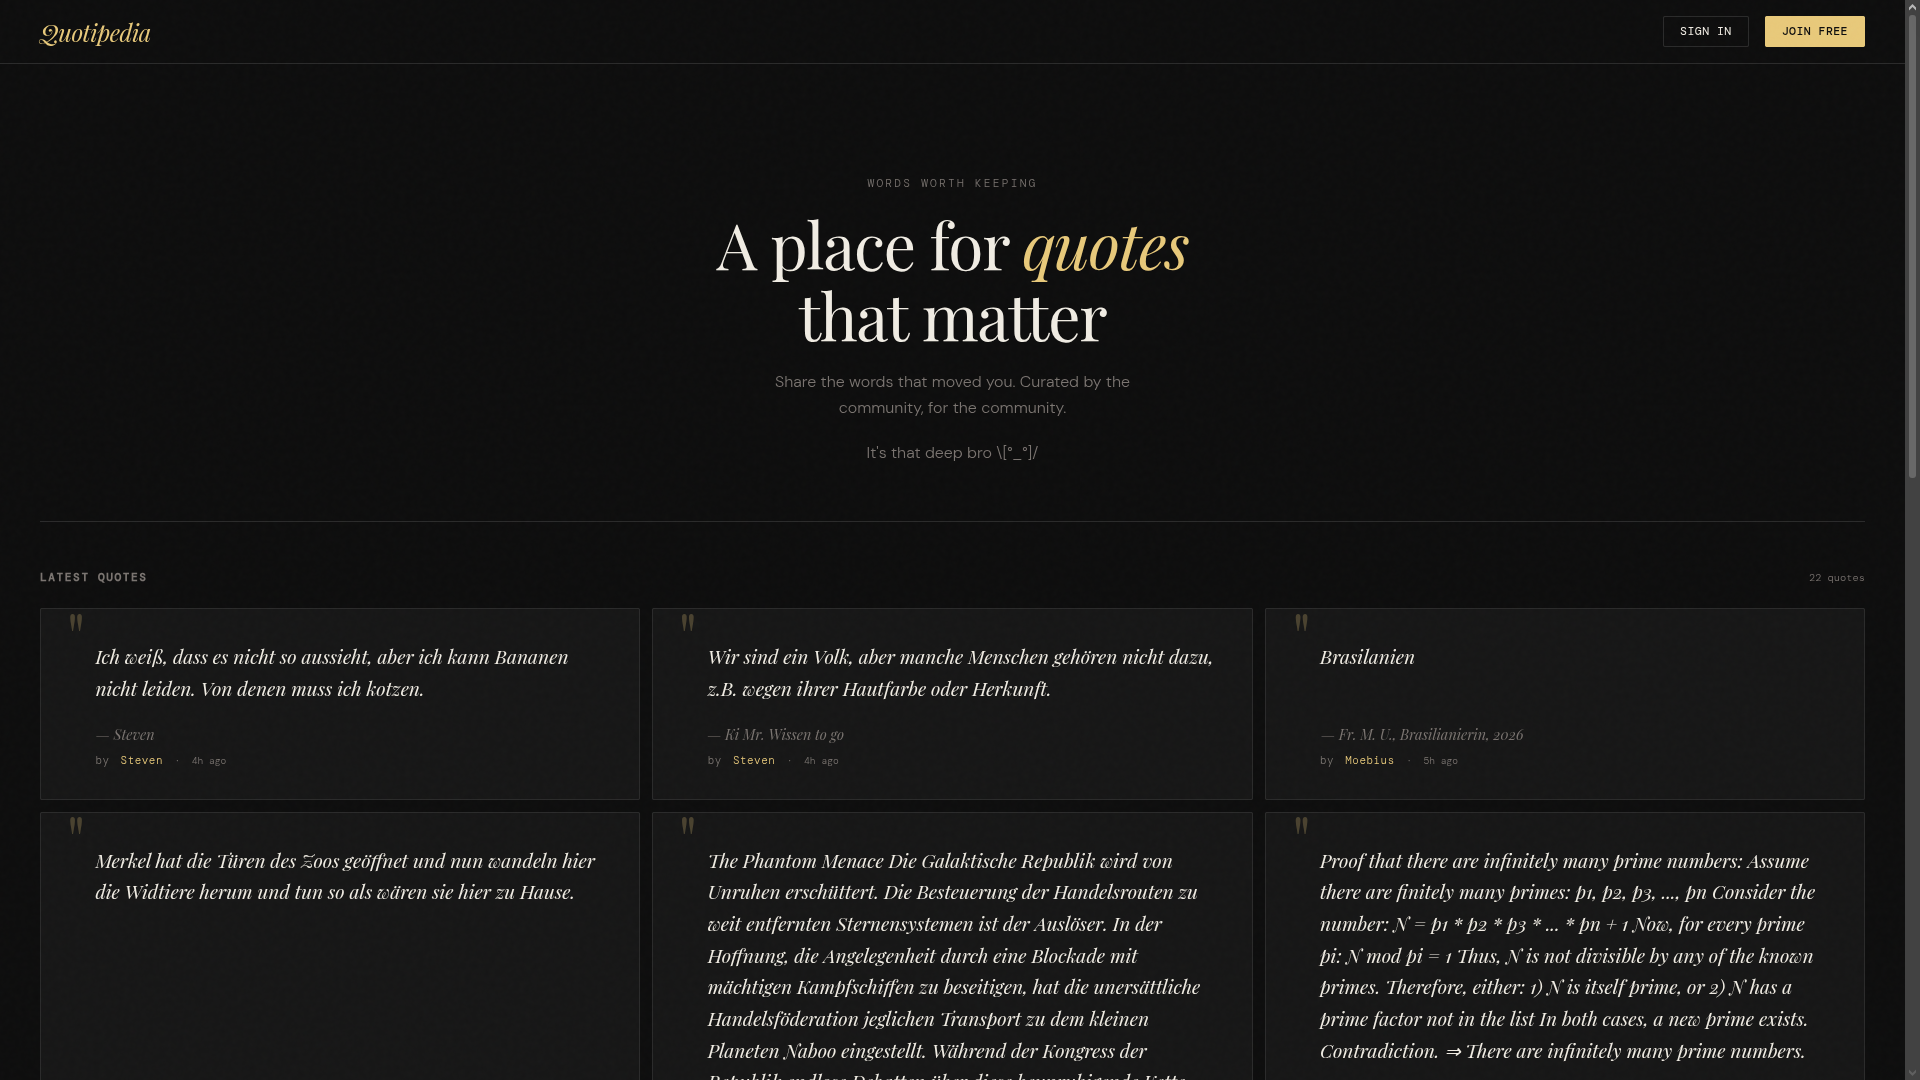
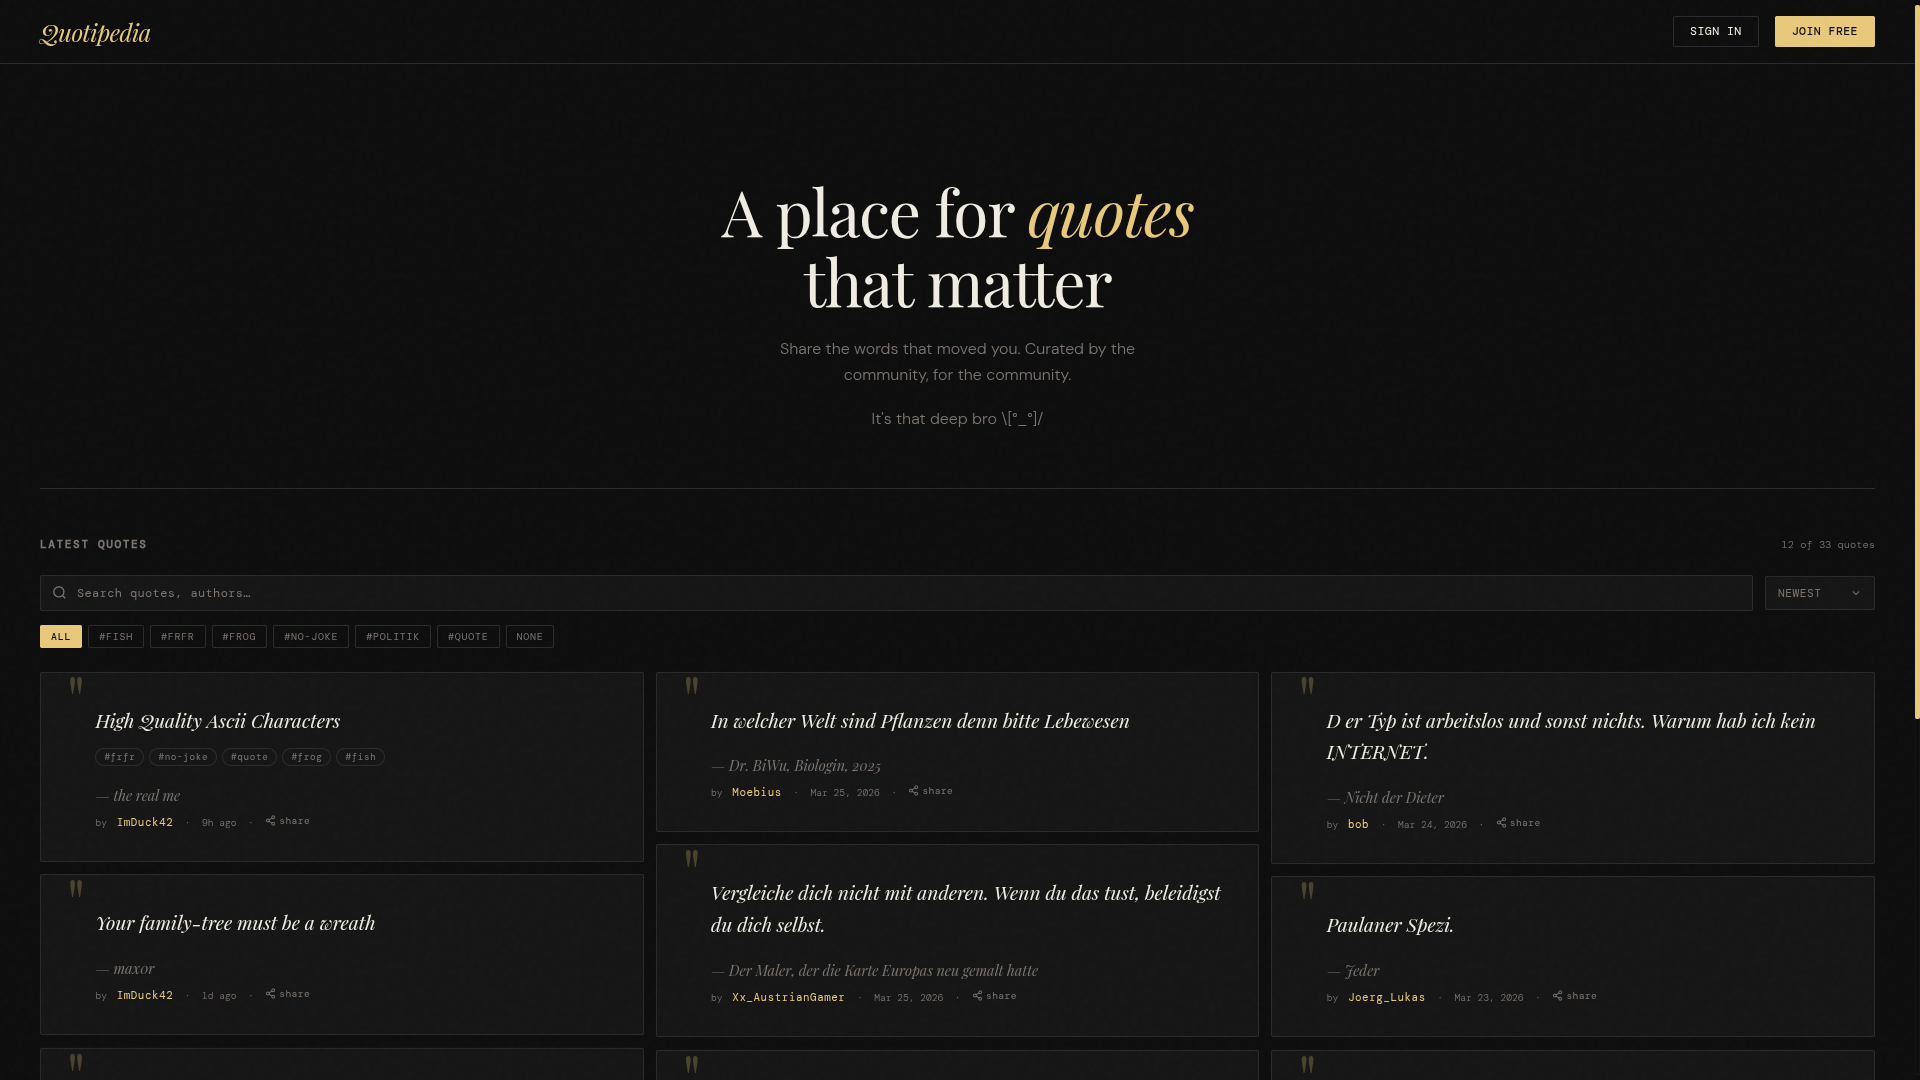
Added: cross tab sync, mobile friendly profile editing, tabs on user's profiles Removed: comment i think thats it

diff --git a/app.js b/app.js
@@ -325,7 +325,7 @@ async function saveProfile(username, profile) {
 
 
 /* ══════════════════════════════════════════════════════════════════
-   Skeleton loading  (shows while quotes are fetching)
+   Skeleton loading
    ══════════════════════════════════════════════════════════════════ */
 function makeSkeleton(count = 6) {
     return Array.from({ length: count }, () => `
@@ -1025,6 +1025,8 @@ async function doAuth() {
             updateNav(database.auth.currentUser)
             showToast(`Welcome back, ${username}!`, 'success')
         }
+        const session = sessionStorage.getItem('__githubdb_session__')
+        if (session) localStorage.setItem('__githubdb_session__', session)
         loadQuotes()
     } catch (err) {
         dom.authError.textContent = userMessage(err)
@@ -1081,7 +1083,7 @@ async function renderProfileView(username, activeTab = 'quotes') {
     let profile, likedIds
     if (!isTabSwitch) {
         profile  = await loadProfile(username)
-        likedIds = isOwnProfile ? await fetchUserLikedIds(username) : new Set()
+        likedIds = await fetchUserLikedIds(username)
 
         // Cache data on the element for fast tab switches
         dom.profileView.profileCache = { username, profile, likedIds }
@@ -1091,9 +1093,7 @@ async function renderProfileView(username, activeTab = 'quotes') {
     }
 
     const allUserQuotes = cachedQuotes.filter(q => q.postedBy === username)
-    const likedQuotes   = isOwnProfile
-        ? cachedQuotes.filter(q => likedIds.has(q.id))
-        : []
+    const likedQuotes   = cachedQuotes.filter(q => likedIds.has(q.id))
     const socials = profile.socials ?? {}
 
     const socialLinksHtml = Object.entries(socials)
@@ -1106,7 +1106,11 @@ async function renderProfileView(username, activeTab = 'quotes') {
 
     const renderProfileCards = (quotes, showOwnerActions = false) => {
         if (!quotes.length) {
-            const emptyMsg = activeTab === 'liked' ? 'No liked quotes yet.' : 'No quotes yet.'
+            const emptyMsg = activeTab === 'liked'
+                ? 'No liked quotes yet.'
+                : activeTab === 'bookmarks'
+                    ? 'No bookmarked quotes yet.'
+                    : 'No quotes yet.'
             return `<p class="pv-empty">${emptyMsg}</p>`
         }
         return quotes.map(q => {
@@ -1138,18 +1142,38 @@ async function renderProfileView(username, activeTab = 'quotes') {
         }).join('')
     }
 
+    const bookmarkedQuotes = isOwnProfile
+        ? cachedQuotes.filter(q => bookmarks.has(q.id))
+        : []
+
     const tabsHtml = isOwnProfile ? `
+        <div class="pv-tabs">
+            <button class="pv-tab ${activeTab === 'quotes'    ? 'active' : ''}" data-tab="quotes">
+                Quotes <span class="pv-tab-count">${allUserQuotes.length}</span>
+            </button>
+            <button class="pv-tab ${activeTab === 'liked'     ? 'active' : ''}" data-tab="liked">
+                Liked <span class="pv-tab-count">${likedQuotes.length}</span>
+            </button>
+            <button class="pv-tab ${activeTab === 'bookmarks' ? 'active' : ''}" data-tab="bookmarks">
+                Bookmarked <span class="pv-tab-count">${bookmarkedQuotes.length}</span>
+            </button>
+        </div>
+    ` : `
         <div class="pv-tabs">
             <button class="pv-tab ${activeTab === 'quotes' ? 'active' : ''}" data-tab="quotes">
                 Quotes <span class="pv-tab-count">${allUserQuotes.length}</span>
             </button>
-            <button class="pv-tab ${activeTab === 'liked' ? 'active' : ''}" data-tab="liked">
+            <button class="pv-tab ${activeTab === 'liked'  ? 'active' : ''}" data-tab="liked">
                 Liked <span class="pv-tab-count">${likedQuotes.length}</span>
             </button>
         </div>
-    ` : `<div class="pv-section-label">Quotes by ${escHtml(username)}</div>`
+    `
 
-    const displayQuotes   = activeTab === 'liked' ? likedQuotes : allUserQuotes
+    const displayQuotes   = activeTab === 'liked'
+        ? likedQuotes
+        : activeTab === 'bookmarks'
+            ? bookmarkedQuotes
+            : allUserQuotes
     const showOwner       = isOwnProfile && activeTab === 'quotes'
     const profileCardsHtml = renderProfileCards(displayQuotes, showOwner)
 
@@ -1224,15 +1248,13 @@ async function renderProfileView(username, activeTab = 'quotes') {
 
     if (isOwnProfile) {
         document.getElementById('pv-edit-btn')?.addEventListener('click', () => openEditProfileModal(username, profile))
-        dom.profileView.querySelectorAll('.pv-tab').forEach(tab => {
-            tab.addEventListener('click', () => renderProfileView(username, tab.dataset.tab))
-        })
-    
-	}
+    }
+    dom.profileView.querySelectorAll('.pv-tab').forEach(tab => {
+        tab.addEventListener('click', () => renderProfileView(username, tab.dataset.tab))
+    })
 }
 
-// \ Do this after the db has updated to 3.2.0 - but need to push dc code
-// deleting old uploads no worki
+
 /* ══════════════════════════════════════════════════════════════════
    Edit profile modal
    ══════════════════════════════════════════════════════════════════ */
@@ -1414,6 +1436,7 @@ function updateNav(user) {
 
 function logout() {
     database.auth.logout()
+    localStorage.removeItem('__githubdb_session__')
     bookmarks = new Set()
     dom.profileView.profileCache = null
     updateNav(null)
@@ -1484,6 +1507,9 @@ async function init(cfg) {
     dom.feed.innerHTML = makeSkeleton(PAGE_SIZE)
 
     try {
+        const stored = localStorage.getItem('__githubdb_session__')
+        if (stored) sessionStorage.setItem('__githubdb_session__', stored)
+
         database = await GitHubDB.instance({
             owner:        cfg.owner,
             repo:         cfg.repo,
@@ -1494,7 +1520,7 @@ async function init(cfg) {
 
         database.permissions({
             quotes: { read: 'public', write: 'auth' },
-            kv:    { read: 'public', write: 'auth' },
+            _kv:    { read: 'public', write: 'auth' },
         })
 
         if (database.auth.isLoggedIn) await database.auth.verifySession()
@@ -1509,7 +1535,7 @@ async function init(cfg) {
             if (username) openProfile(username)
         } else if (location.hash.startsWith('#quote/')) {
             const qid   = decodeURIComponent(location.hash.slice(7))
-            const quote = allQuotes.find(q => q.id === qid)
+            const quote = allQuotes.find(quote => quote.id === qid)
             if (quote) openQuoteModal(quote)
         }
     } catch (err) {
@@ -1520,6 +1546,27 @@ async function init(cfg) {
 
 updateNav(null)
 dom.authSubmitBtn.disabled = true
+
+
+/* ══════════════════════════════════════════════════════════════════
+   Cross-tab auth sync
+   ══════════════════════════════════════════════════════════════════ */
+window.addEventListener('storage', async evt => {
+    if (!database) return
+    if (evt.key !== '__githubdb_session__') return
+
+    if (evt.newValue) {
+        await database.auth.verifySession()
+        const user = database.auth.isLoggedIn ? database.auth.currentUser : null
+        updateNav(user)
+        if (user) await loadQuotes()
+    } else {
+        bookmarks = new Set()
+        dom.profileView.profileCache = null
+        updateNav(null)
+        applyFiltersAndRender()
+    }
+})
 
 // Draft auto-save
 ;['quote-text', 'quote-author', 'quote-tags'].forEach(elId => {

diff --git a/styles.css b/styles.css
@@ -92,15 +92,11 @@ body {
   background: rgba(13, 13, 13, 0.92);
   backdrop-filter: blur(12px);
   z-index: 100;
-
-  @media (max-width: 600px) { padding: 0 1.2rem; }
 }
 
 main {
   margin: 0 auto;
   padding: 3rem 2.5rem 6rem;
-
-  @media (max-width: 600px) { padding: 2rem 1.2rem 5rem; }
 }
 
 .top-section {
@@ -236,8 +232,6 @@ nav {
       color: var(--accent);
       font-style: italic;
     }
-
-    @media (max-width: 600px) { font-size: 2.2rem; }
   }
 
   & .hero-sub {
@@ -256,8 +250,6 @@ nav {
   border: 1px solid var(--border);
   border-radius: var(--radius);
   padding: 2rem;
-
-  @media (max-width: 779px) { margin-bottom: 2.5rem; }
 
   & h3 {
     font-family: var(--font-serif);
@@ -384,8 +376,6 @@ nav {
     line-height: 1.65;
     color: var(--text);
     padding-left: 1.2rem;
-
-    @media (max-width: 600px) { font-size: 1.05rem; }
   }
 
   & .quote-tags {
@@ -748,6 +738,8 @@ nav {
   backdrop-filter: blur(4px);
   align-items: center;
   justify-content: center;
+  padding: 5vh 0;
+  overflow-y: auto;
 
   &.open { display: flex; }
 }
@@ -760,6 +752,8 @@ nav {
   padding: 2.5rem;
   position: relative;
   animation: modalIn 0.25s ease;
+  max-height: 98dvh;
+  overflow-y: auto;
 
   &.modal-wide { width: min(670px, 95vw); }
 
@@ -774,9 +768,9 @@ nav {
 }
 
 .modal-close {
-  position: absolute;
-  top: 1rem;
-  right: 1rem;
+  position: sticky;
+  top: 0;
+  float: right;
   background: none;
   border: none;
   color: var(--muted);
@@ -784,6 +778,7 @@ nav {
   font-size: 1.2rem;
   line-height: 1;
   transition: color var(--base);
+  z-index: 1;
 
   &:hover { color: var(--text); }
 }
@@ -821,8 +816,6 @@ nav {
   display: grid;
   grid-template-columns: 1fr 1fr;
   gap: 0 1rem;
-
-  @media (max-width: 480px) { grid-template-columns: 1fr; }
 }
 
 .ep-socials-label {
@@ -971,8 +964,6 @@ nav {
   background-size: cover;
   background-position: center;
   position: relative;
-
-  @media (max-width: 600px) { height: 160px; }
 }
 
 .pv-banner-overlay {
@@ -982,11 +973,9 @@ nav {
 }
 
 .pv-body {
-  max-width: 860px;
+  max-width: 1290px;
   margin: 0 auto;
   padding: 0 2.5rem 5rem;
-
-  @media (max-width: 600px) { padding: 0 1.2rem 4rem; }
 }
 
 .pv-header {
@@ -995,8 +984,6 @@ nav {
   gap: 1.5rem;
   margin-top: -40px;
   position: relative;
-
-  @media (max-width: 600px) { flex-wrap: wrap; gap: 1rem; }
 }
 
 .pv-avatar-wrap { flex-shrink: 0; }
@@ -1007,8 +994,6 @@ nav {
   height: 88px;
   border-radius: 50%;
   border: 3px solid var(--bg);
-
-  @media (max-width: 600px) { width: 72px; height: 72px; }
 }
 
 .pv-avatar { object-fit: cover; display: block; }
@@ -1021,8 +1006,6 @@ nav {
   font-family: var(--font-serif);
   font-size: 2rem;
   color: var(--accent);
-
-  @media (max-width: 600px) { font-size: 1.6rem; }
 }
 
 .pv-identity {
@@ -1123,7 +1106,7 @@ nav {
   columns: 1;
   column-gap: 12px;
 
-  @media (min-width: 540px) { columns: 2; }
+  @media (min-width: 540px) { columns: 3; }
 }
 
 .pv-empty {
@@ -1387,5 +1370,40 @@ nav {
 
 @keyframes blink {
   0%, 100% { opacity: 1; }
-  50%      { opacity: 0; }
+  50%       { opacity: 0; }
+}
+
+
+/* ── Responsive styles ───────────────────────────────────────── */
+@media (max-width: 760px) {
+
+  #site-header { padding: 0 1.2rem; }
+  main { padding: 2rem 1.2rem 5rem; }
+  #submit-panel { margin-bottom: 2.5rem; }
+  .quote-card .quote-body { font-size: 1.05rem; }
+  .hero h1 { font-size: 2.2rem; }
+  .modal-backdrop {
+    padding: 1vh 0;
+    align-items: flex-start;
+  }
+  .modal-wide {
+    padding: 1rem 1.2rem;
+  }
+  .modal-wide h2 {
+    font-size: 1.3rem;
+    margin-bottom: 1.2rem;
+  }
+  .ep-grid,
+  .ep-socials-grid {
+    grid-template-columns: 1fr;
+  }
+  .pv-banner      { height: 160px; }
+  .pv-body        { padding: 0 1.2rem 4rem; }
+  .pv-header      { flex-wrap: wrap; gap: 1rem; }
+  .pv-avatar,
+  .pv-avatar-default {
+    width: 72px;
+    height: 72px;
+  }
+  .pv-avatar-default { font-size: 1.6rem; }
 }

diff --git a/README.md b/README.md
@@ -1,2 +1,5 @@
+> # Works on mobile too btw
 ![Preview](./image/image.png)
 ![Preview](./image/imageToo.png)
+![Preview](./image/imageTree.png)
+![Preview](./image/imageVoa.png)
